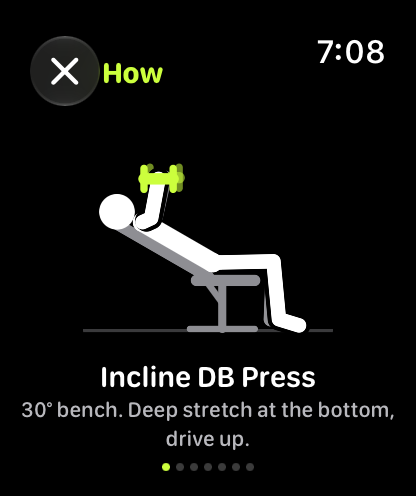
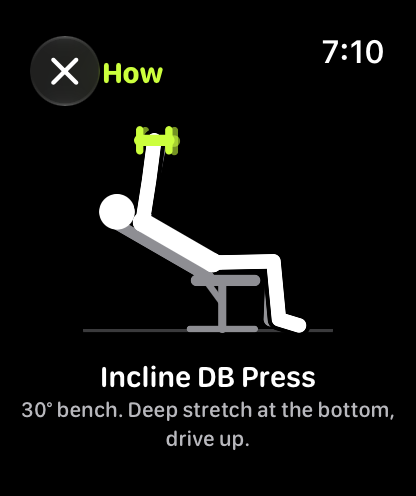
How: the Crown hint and the turn dots show only while turning; the cue is back about a second after

Changed region(s): [[0.3125, 0.2419, 0.4688, 0.4839], [0.75, 0.0605, 0.9375, 0.1512], [0.375, 0.9375, 0.625, 0.9677]]

diff --git a/Apps/Watch/Views/HowView.swift b/Apps/Watch/Views/HowView.swift
@@ -1,9 +1,11 @@
 import SwiftUI
 import RepCoachCore
 
-/// How to do the exercise: the figure moving at 125 pt (100 pt when there is a Swap button to fit), the Digital Crown turning it a full circle, with light haptic detents. Until the Crown
-/// has been turned here once, the line says so; after that it is the cue. Under it, Swap exercise: take another
-/// exercise's place for today.
+/// How to do the exercise: the figure moving at 125 pt (100 pt when there is a Swap button to fit), the Digital
+/// Crown turning it a full circle, with light haptic detents. Under the name is the cue. While the Crown turns the
+/// figure (and until it has been turned once), one ice line, "Turn the Crown to look around", takes its place;
+/// with it, while it is turning, seven dots show where in the turn the figure is. About a second after the Crown
+/// stops the cue comes back and the dots go. Under it, Swap exercise: take another exercise's place for today.
 struct HowView: View {
     @Environment(TodayModel.self) private var today
     @Environment(WorkoutModel.self) private var workout
@@ -13,6 +15,9 @@ struct HowView: View {
     @State private var swapping = false
     @State private var crown = 0.0
     @State private var lastDetent = 0
+    /// The Crown moved in the last second.
+    @State private var turning = false
+    @State private var settle: Task<Void, Never>?
     @FocusState private var focused: Bool
     @AppStorage("figuresTurned") private var hasTurned = false
 
@@ -32,16 +37,22 @@ struct HowView: View {
                 .multilineTextAlignment(.center)
                 .lineLimit(2)
                 .padding(.top, pt(2))
-            Group {
-                if hasTurned {
-                    Text(exercise.cue).role(.small.weight(.medium), Theme.text2)
-                } else {
-                    Text("Turn the Crown to look around").role(.small, Theme.ice)
+            // The cue and the hint share one block, as tall as the cue, so nothing under it moves between them.
+            let showsHint = turning || !hasTurned
+            ZStack(alignment: .top) {
+                Text(exercise.cue)
+                    .role(.small.weight(.medium), Theme.text2)
+                    .multilineTextAlignment(.center)
+                    .fixedSize(horizontal: false, vertical: true)
+                    .opacity(showsHint ? 0 : 1)
+                    .accessibilityHidden(showsHint)
+                VStack(spacing: pt(5)) {
+                    Text("Turn the Crown to look around").role(.small, Theme.ice).lineLimit(1)
+                    dots(yaw: yaw).opacity(turning ? 1 : 0)
                 }
+                .opacity(showsHint ? 1 : 0)
+                .accessibilityHidden(!showsHint)
             }
-            .multilineTextAlignment(.center)
-            .lineLimit(2)
-            .fixedSize(horizontal: false, vertical: true)
             .padding(.horizontal, pt(8))
             .padding(.top, pt(1))
             if canSwap {
@@ -57,9 +68,6 @@ struct HowView: View {
                 .buttonStyle(.plain)
                 .padding(.top, pt(7))
                 .accessibilityLabel("Swap exercise")
-            } else {
-                dots(yaw: yaw)
-                    .padding(.top, pt(6))
             }
         }
         .padding(.top, Metrics.sheetTop - pt(4))
@@ -69,9 +77,22 @@ struct HowView: View {
         .focused($focused)
         .digitalCrownRotation($crown, from: -1000, through: 1000, by: nil, sensitivity: .medium, isContinuous: false,
                               isHapticFeedbackEnabled: false)
-        .onAppear { focused = true }
+        .onAppear {
+            focused = true
+            #if DEBUG
+            // `-turning YES`: the sheet as it looks while the Crown turns, for the board that shows it.
+            if LaunchOptions.demo, UserDefaults.standard.bool(forKey: "turning") { turning = true }
+            #endif
+        }
         .onChange(of: crown) {
             if abs(crown) > 0.02 { hasTurned = true }
+            // The hint and the dots stay for a second after the Crown stops.
+            turning = true
+            settle?.cancel()
+            settle = Task {
+                try? await Task.sleep(for: .seconds(1))
+                if !Task.isCancelled { turning = false }
+            }
             // A light detent every 30 degrees.
             let detent = Int((crown * Self.degreesPerTurn / 30).rounded(.down))
             if detent != lastDetent {

diff --git a/docs/SPEC.md b/docs/SPEC.md
@@ -98,7 +98,7 @@ The look: one accent. Volt is what to tap and the value the Crown moves; ice mea
 
 **Form figures**
 - Every exercise of the plan has a small line figure that moves through its reps (`figures.json`, shipped as a resource of `RepCoachCore`, built by the designer; 50 figures, some shared; a short cue each). The user's own exercises have none, and nothing shows for them. `FigureRenderer` (`RepCoachCore/Figures`) is a port of `design/figures/figure3d.py`: it interpolates the two poses with ease in and out, turns them by yaw about the vertical axis, projects orthographically, sorts the parts far to near, dims limbs behind the body and crops one square per figure for every angle. It is pinned to the designer's golden values (`vectors.json`). A SwiftUI `Canvas` (`FigureView`) draws it.
-- Set screen (and a hold's ready screen): the name block is a row, the name and hints on the left, a 42 pt button with a still of the figure on the right. A tap opens **How**: the figure moving at 125 pt, the name, one line (until the Crown has been turned there once, "Turn the Crown to look around" in ice; after that the cue), and seven dots for where in the circle it is. The Digital Crown turns the figure a full circle, smoothly, with a light haptic every 30°. It opens at the figure's opening view (`yaw`).
+- Set screen (and a hold's ready screen): the name block is a row, the name and hints on the left, a 42 pt button with a still of the figure on the right. A tap opens **How**: the figure moving at 125 pt (100 pt when there is a Swap button), the name and the cue. While the Crown turns the figure (and at rest until it has been turned once) the cue is replaced by one ice line, "Turn the Crown to look around", and while it is turning seven dots under it show where in the circle it is (volt for the current one); about a second after the Crown stops the cue is back and the dots are gone. At rest there are no dots. Swap exercise stays where it is. The Digital Crown turns the figure a full circle, smoothly, with a light haptic every 30°. It opens at the figure's opening view (`yaw`).
 - Break: a figure of the next exercise moves beside its name. Always On and Reduce Motion show the still (the start pose faint under the end pose); stills under 45 pt show the end pose alone with lines 1.4 times wider.
 
 **Ramp-up screen** (before the first working set; see Progression rules)

diff --git a/docs/STATUS.md b/docs/STATUS.md
@@ -6,7 +6,7 @@ Kept by the builder session ("SpotMe - Frontend (Mac Studio)"). Read by `/next`.
 
 **Watch build 9 passed the Designer's check** (7 Oct, `design/reviews/11-build-watch-2.md`) and is on `main` (`bbba61d`); the owner installs it from Xcode (`xcodegen generate`, run the RepCoach scheme with the watch paired; if Xcode complains about the App Group `group.com.yeshu.RepCoach`, add App Groups on the RepCoachWatch and RepCoachWidgets targets).
 
-**Build 10 (branch `watch-build-10`, not pushed)** holds the Designer's three small notes from that check: the How sheet's name at full row size, the break's short name on one line with 14 pt sides, and the old-id figure fallback dropped (the bundle has both ids). Screenshots of the three screens are in `design/built/watch-3/`. The How sheet's seven dots are the Crown's turn position, not pages; they stay until the Designer draws them or says to hide them. Waits for more notes before it is worth a build.
+**Build 10 (branch `watch-build-10`, not pushed)** holds the Designer's three small notes from that check: the How sheet's name at full row size, the break's short name on one line with 14 pt sides, and the old-id figure fallback dropped (the bundle has both ids). Screenshots of the three screens are in `design/built/watch-3/`. The How sheet shows its hint and the seven turn dots only while the Crown turns (Designer, 7 Oct); at rest it shows the cue. Waits for more notes before it is worth a push.
 
 ## Next
 
